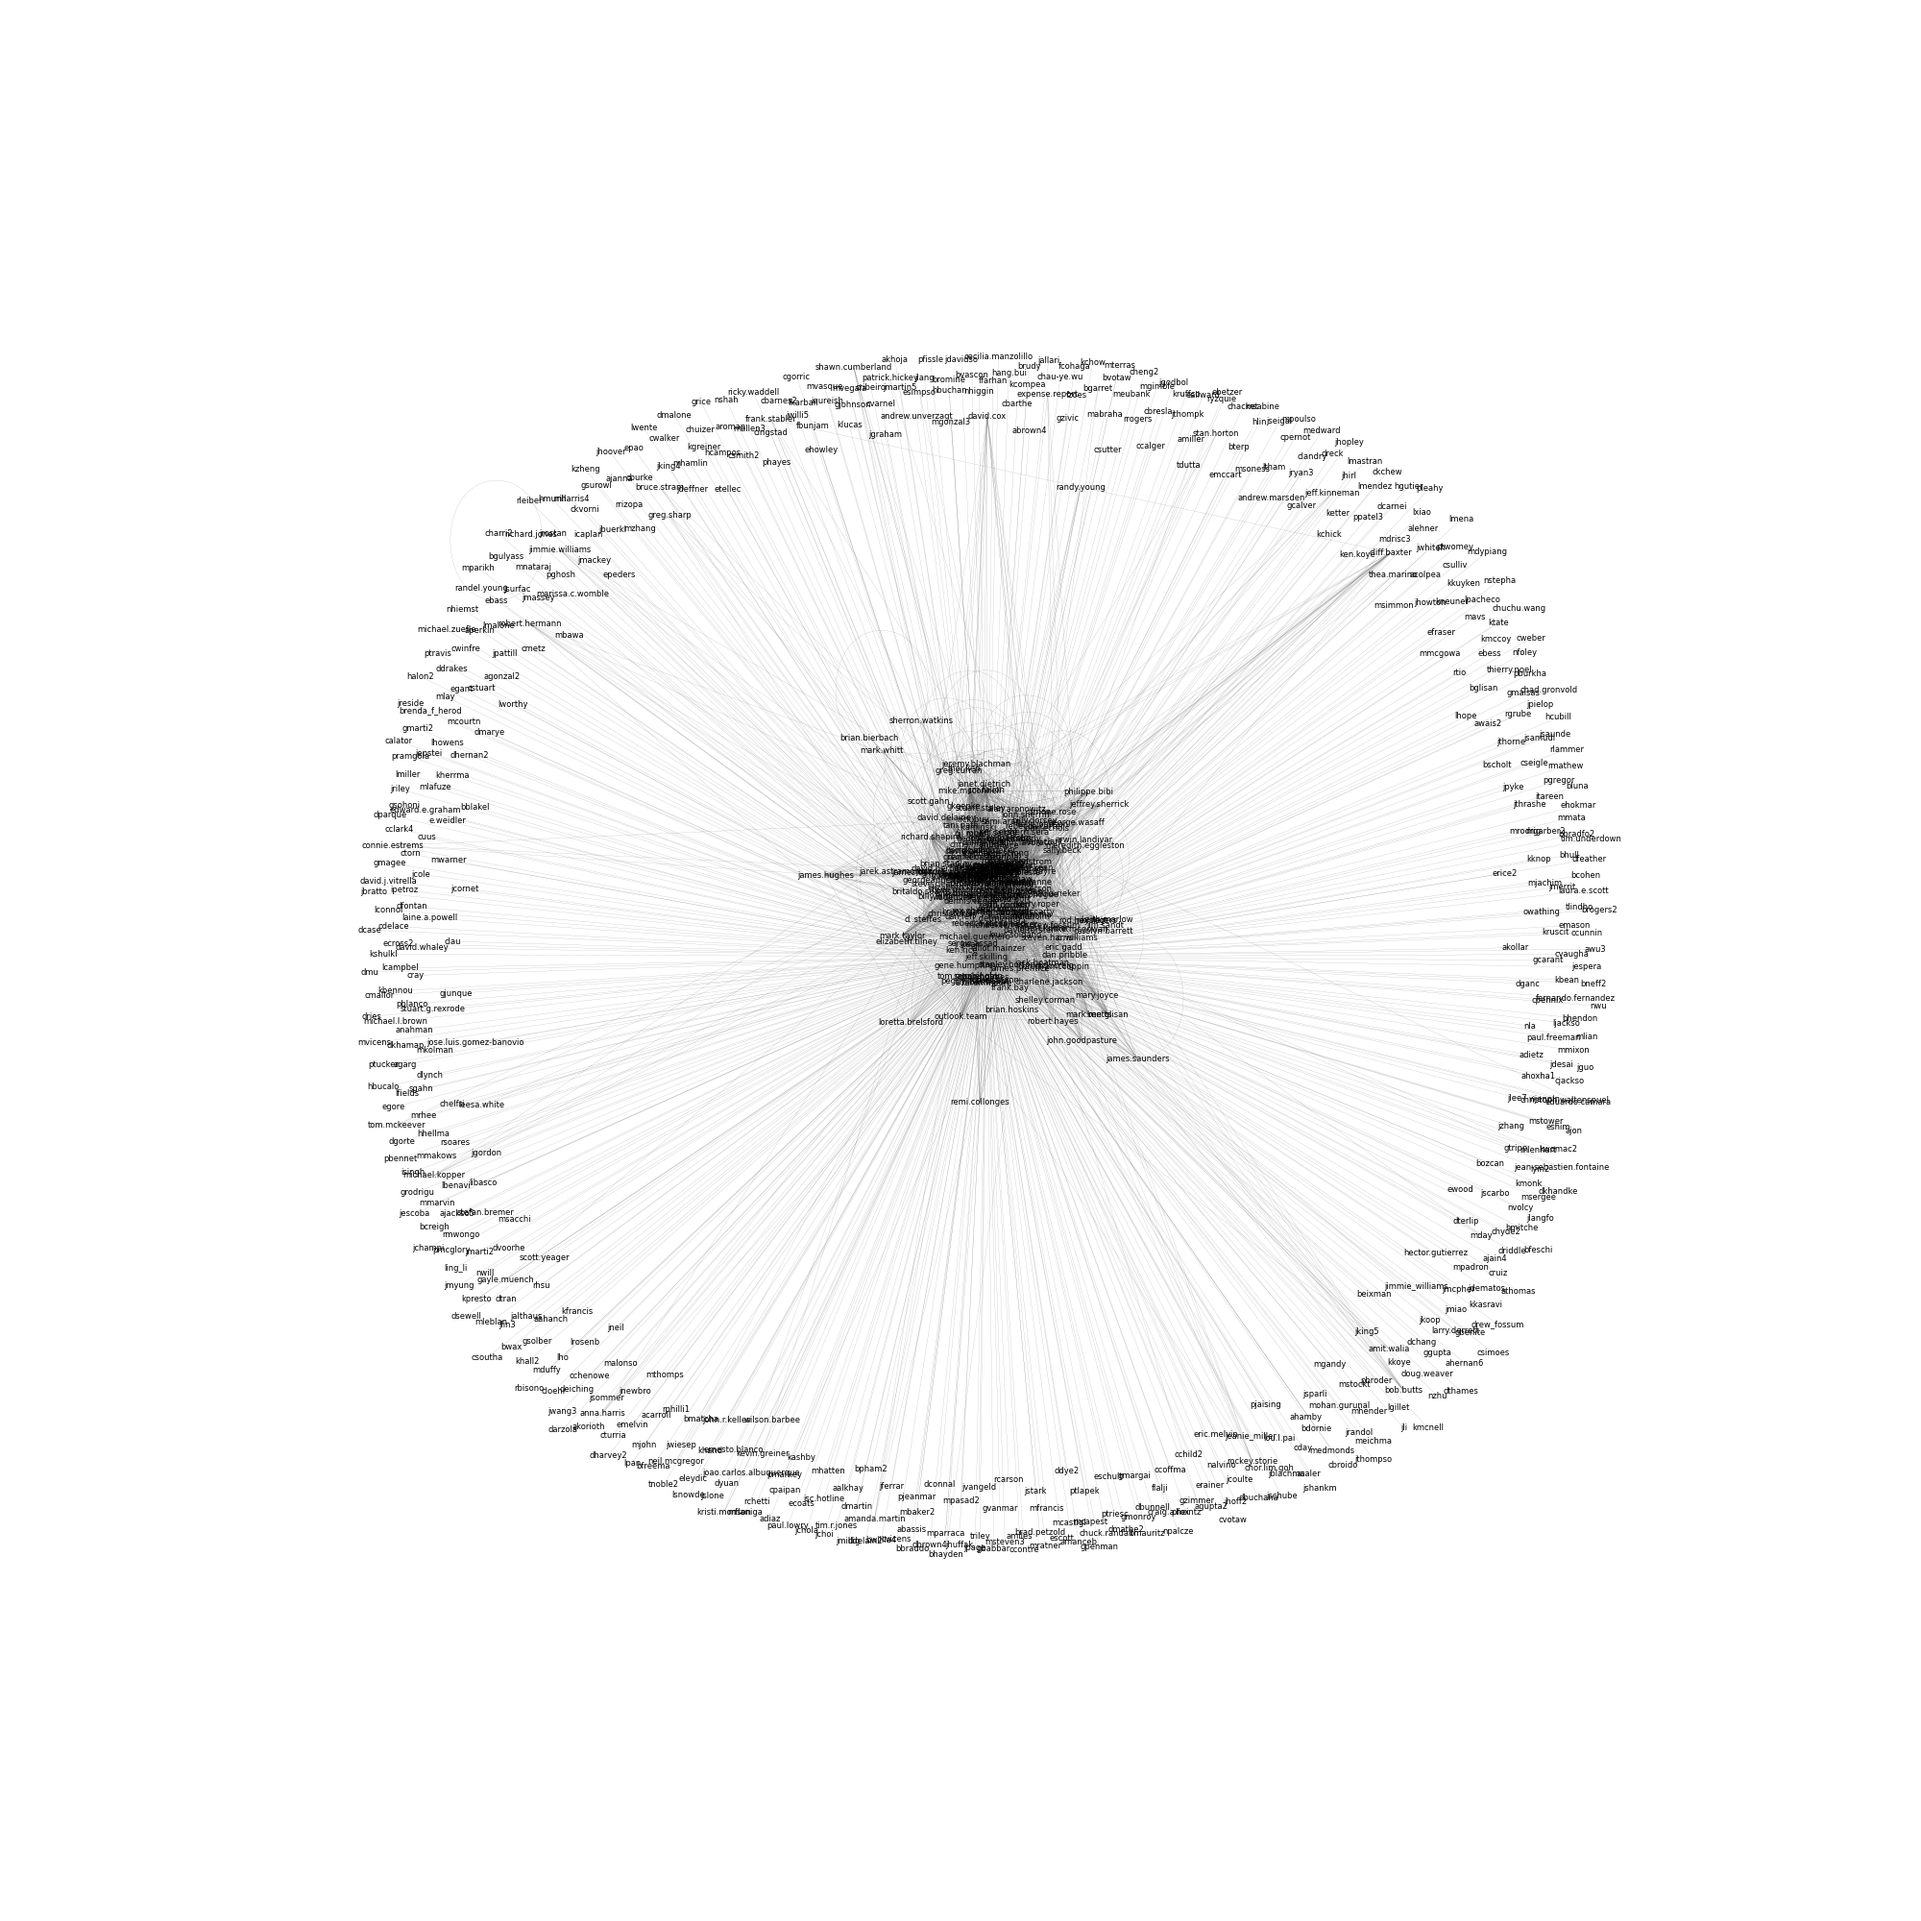
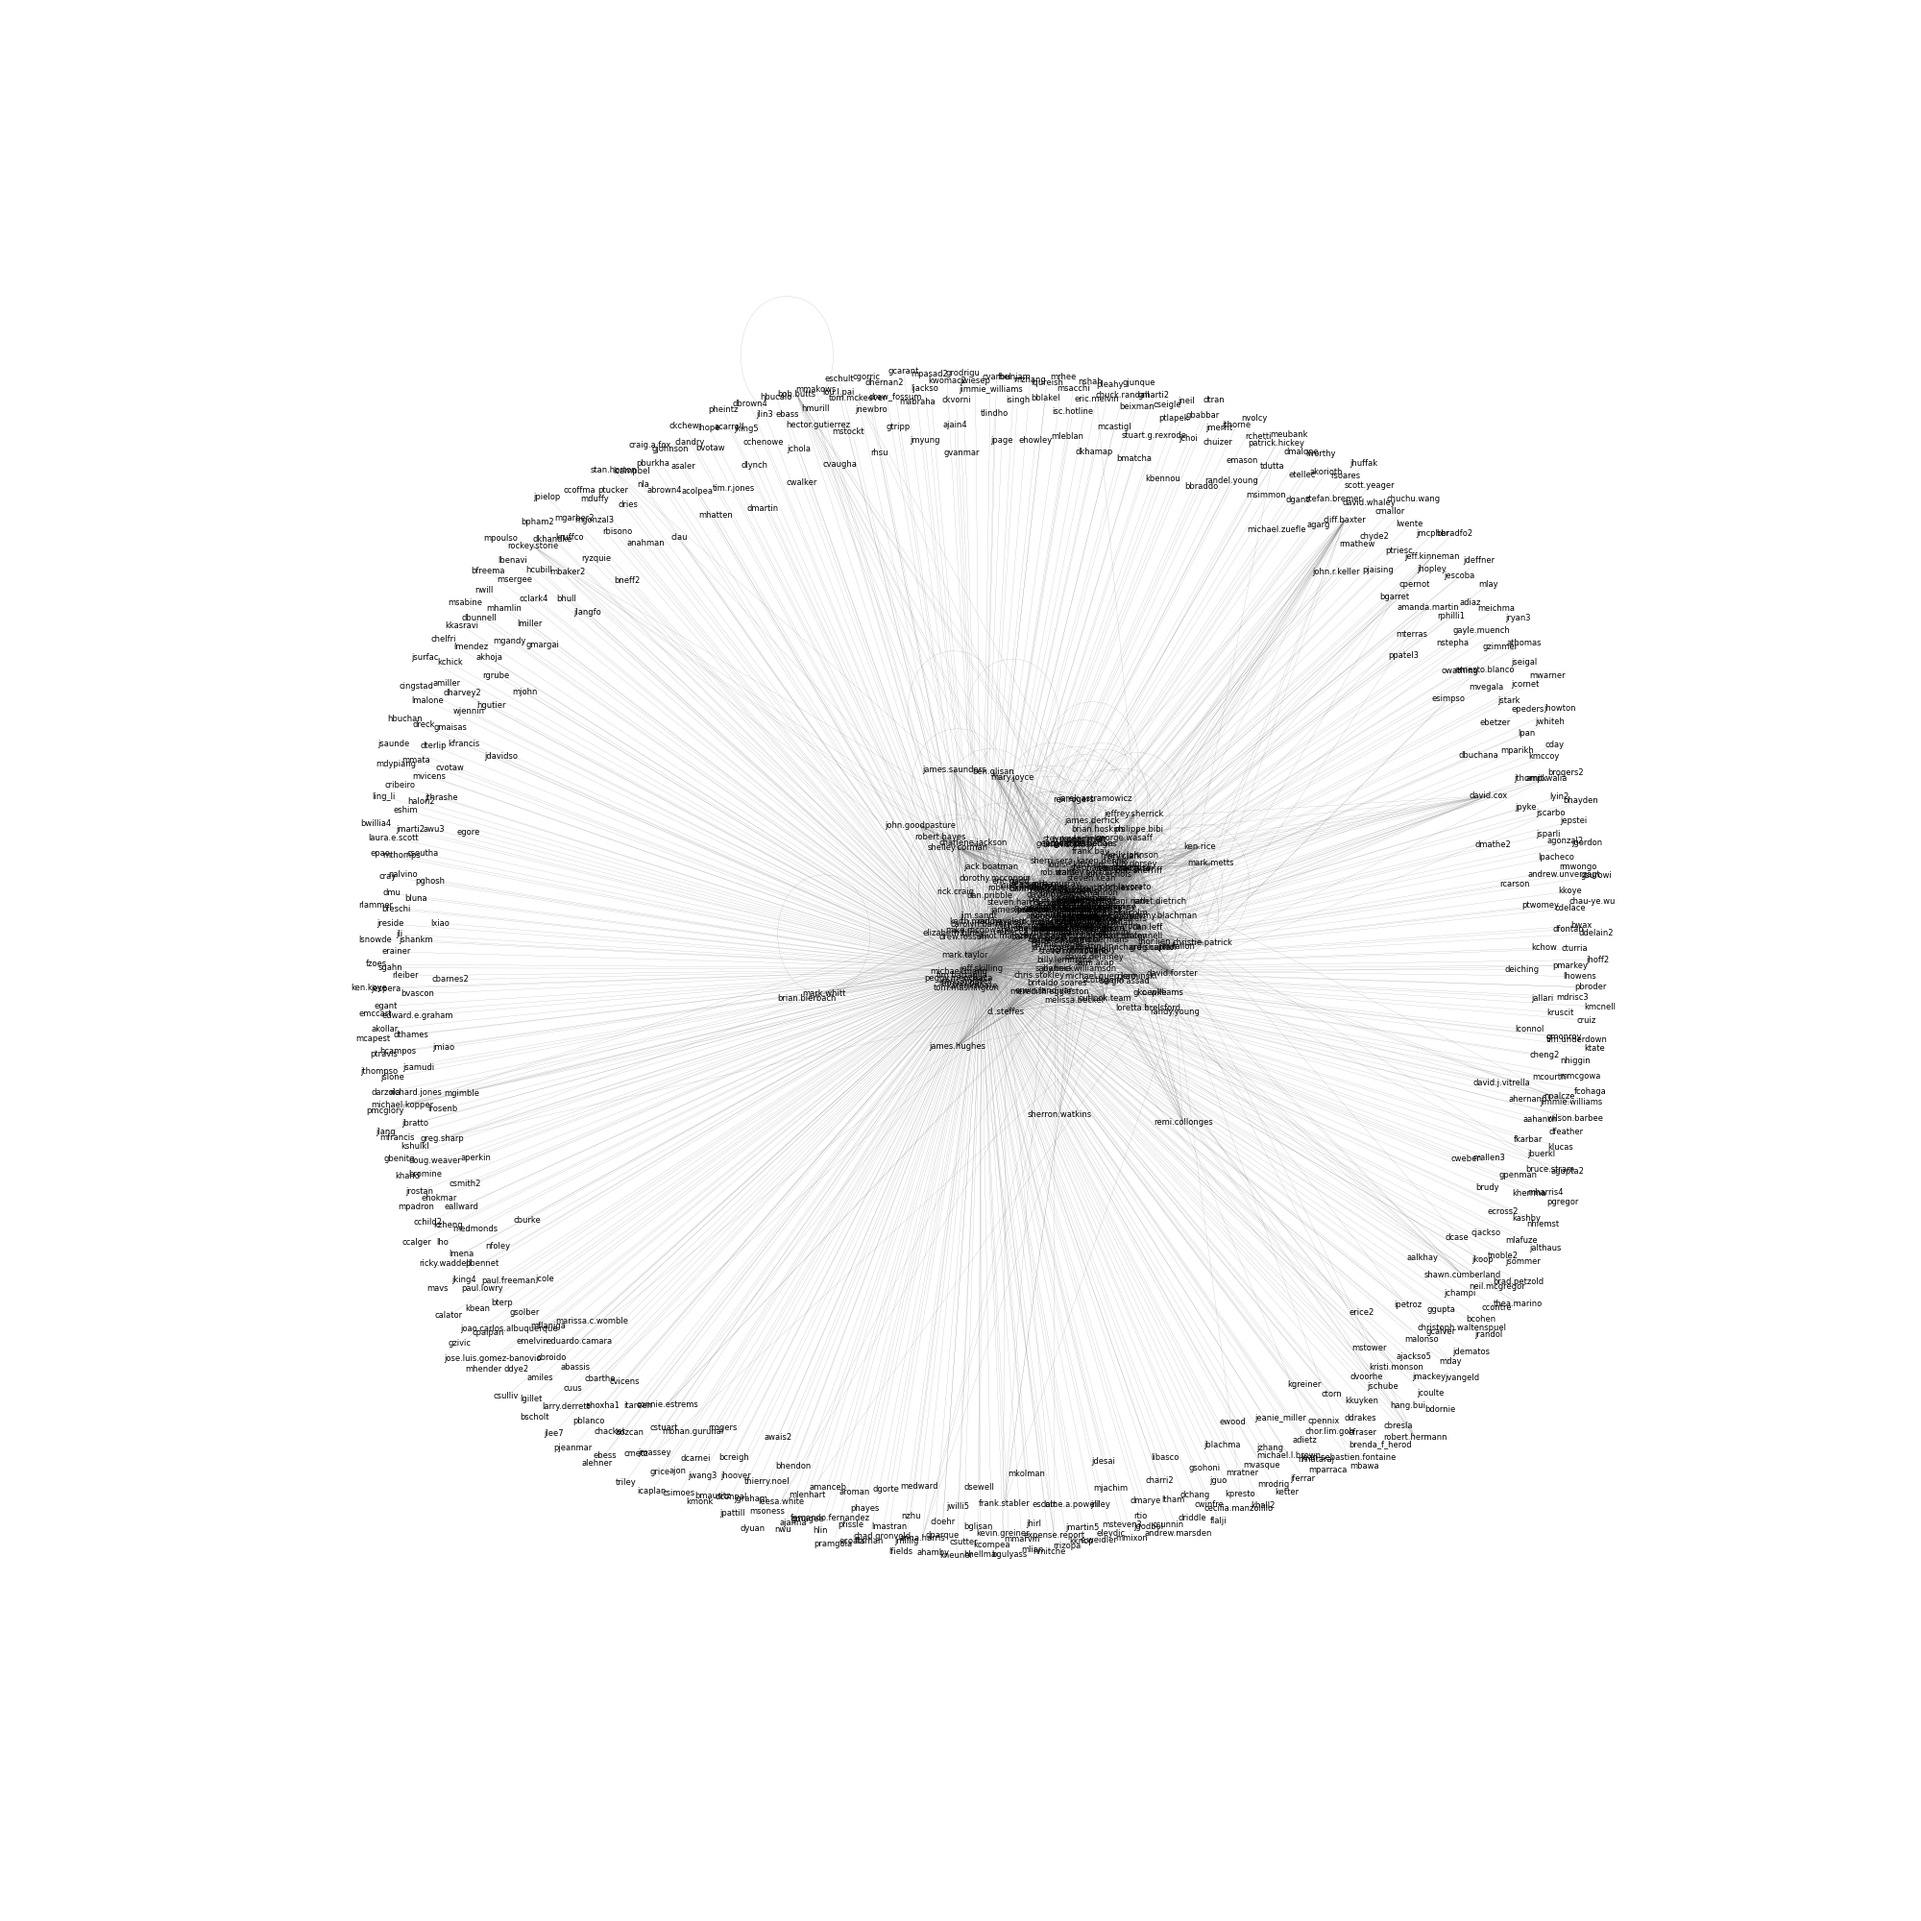
update proj

Changed region(s): [[0.186, 0.186, 0.837, 0.806], [0.651, 0.62, 0.682, 0.651]]

diff --git a/projects/enron.md b/projects/enron.md
@@ -210,8 +210,16 @@ The email graph is way too large to display the whole thing and get any meaningf
 
 Use networkx `ego_graph()` method to get a radius=1 neighborhood around `jeff.skilling` and draw the spring graph with a plot that is 20x20 inches so we can see details.  Then, draw the same subgraph again using the kamada-kawai layout strategy. Finally, get the neighborhood around kenneth.lay and draw kamada-kawai. The graph plots should look like this:
 
-<img src="figures/enron-skilling-kamada.png" width="50%"><img src="figures/enron-skilling-spring.png" width="50%">
+#### Skilling spring layout
 
+There is a randomness associated with the generation of the spring layout and so for reproducibility and comparison, please use `seed=np.random.RandomState(501)` when getting the spring layout.
+
+<img src="figures/enron-skilling-spring.png" width="50%">
+
+#### Skilling kamada layout
+<img src="figures/enron-skilling-kamada.png" width="50%">
+
+#### Skilling kamada layout
 <img src="figures/enron-lay-kamada.png" width="50%">
 
 I use parameters:
